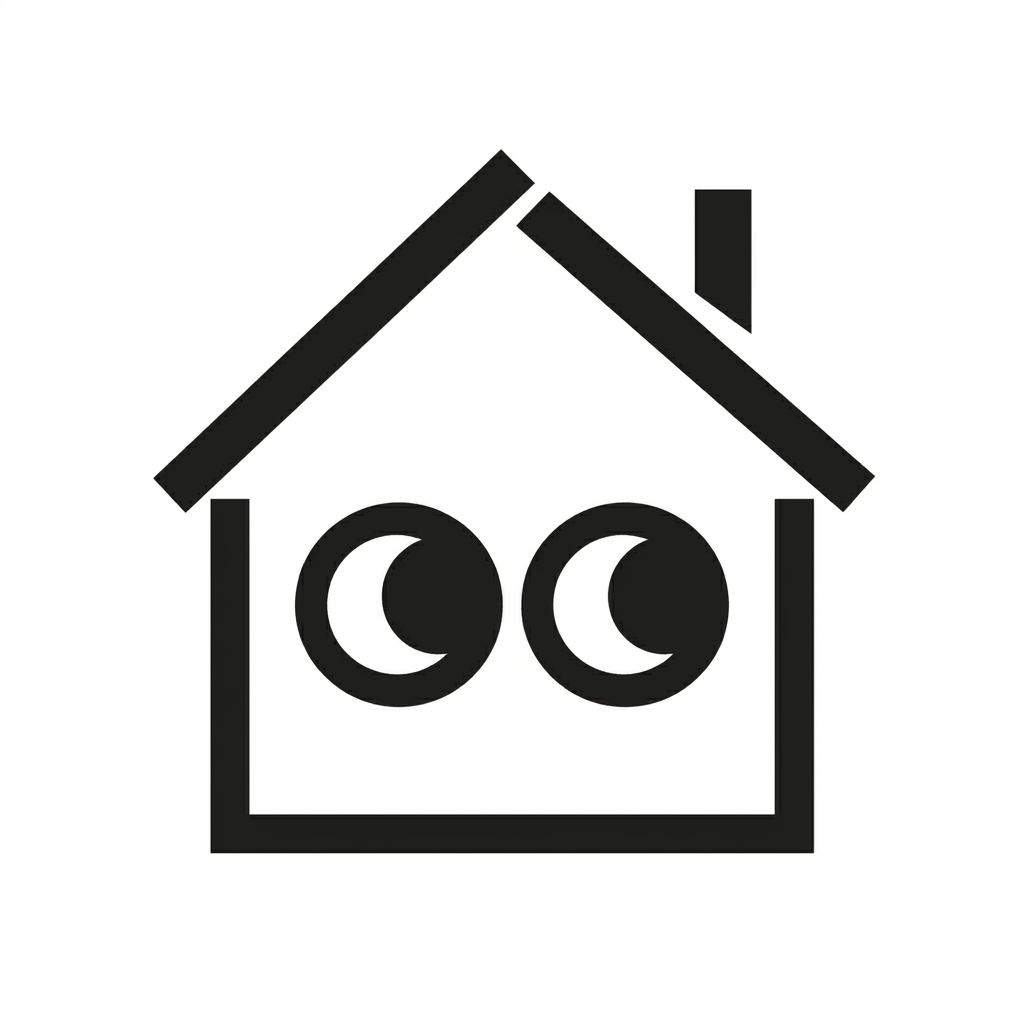
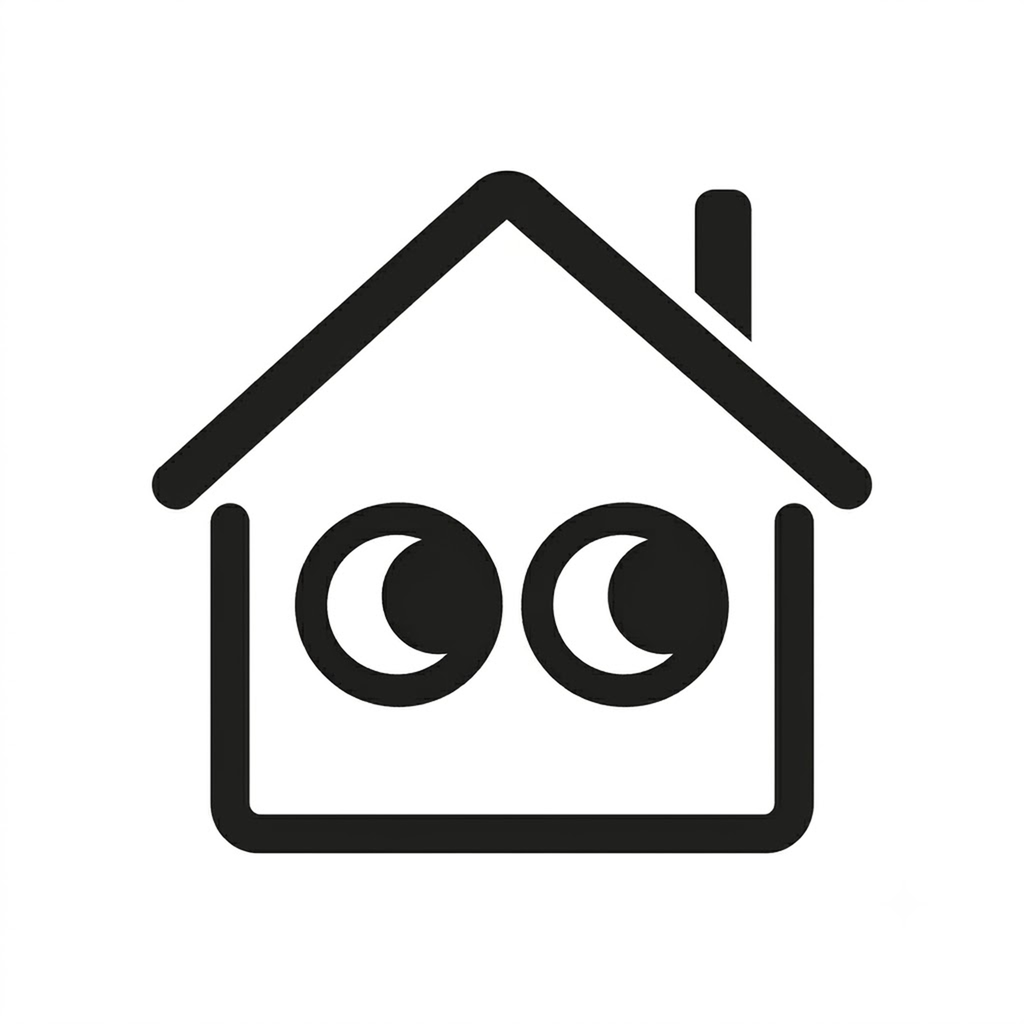
feat(onboarding): NOOK 워드마크 로고 + Nook 표시 이름 + 새 아이콘 자산
- app.json name: "nook" → "Nook" (iOS 홈스크린 표시 이름 정정)
- onboarding 화면: icon.png(집+눈) → logo.png(NOOK 워드마크)로 교체
  - 아이콘 230×230 radius 46 → 로고 220×72 (iOS 표준 시각 위계)
  - 슬로건 빨강 17px 700 → 회색 14px 400 ("every nook and cranny", 느낌표 제거)
- assets: icon.png / splash-icon.png 자산 교체, 사용 안 하는 favicon.png 제거

diff --git a/app/onboarding.tsx b/app/onboarding.tsx
@@ -32,10 +32,10 @@ export default function OnboardingScreen() {
   return (
     <SafeAreaView style={styles.container}>
       <View style={styles.content}>
-        {/* Brand section — 소셜 로그인 버튼 위 영역의 정중앙 */}
+        {/* Brand section — NOOK 워드마크 + 슬로건 */}
         <View style={styles.brandSection}>
-          <Image source={require('@/assets/icon.png')} style={styles.appIcon} resizeMode="contain" />
-          <Text style={styles.sloganAccent}>every nook and cranny!</Text>
+          <Image source={require('@/assets/logo.png')} style={styles.logo} resizeMode="contain" />
+          <Text style={styles.slogan}>every nook and cranny</Text>
         </View>
 
         {/* Bottom section */}
@@ -103,17 +103,16 @@ const styles = StyleSheet.create({
     flex: 1,
     alignItems: 'center',
     justifyContent: 'center',
-    gap: 8,
+    gap: 16,
   },
-  appIcon: {
-    height: 230,
-    width: 230,
-    borderRadius: 46,
+  logo: {
+    width: 220,
+    height: 72,
   },
-  sloganAccent: {
-    fontSize: 17,
-    color: Colors.accent,
-    fontWeight: '700',
+  slogan: {
+    fontSize: 14,
+    color: Colors.tertiary,
+    fontWeight: '400',
   },
   bottomSection: {
     justifyContent: 'flex-end',